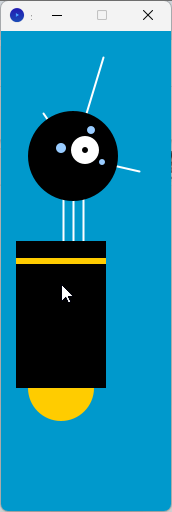
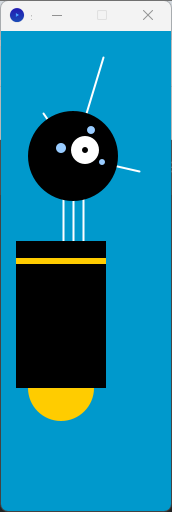
Refactor robot drawing code into reusable drawRobot() function

diff --git a/processing/refactor-to-functions.md b/processing/refactor-to-functions.md
@@ -107,3 +107,301 @@ ellipse(x+30, ny-26, 4, 4);                   // 장식 점 2
 ellipse(x+41, ny+6, 3, 3);                    // 장식 점 3
 ```
 
+## 네 가지 모양의 로봇
+
+### 첫 번째 모양
+
+```java
+int x = 60; 
+int y = 390; 
+int bodyHeight = 180; 
+int neckHeight = 40; 
+int radius = 45;
+int ny = y - bodyHeight - neckHeight - radius; 
+
+size(170, 480);
+strokeWeight(2);
+background(0, 153, 204);
+ellipseMode(RADIUS);
+
+// Neck
+stroke(255);
+line(x+2, y-bodyHeight, x+2, ny);
+line(x+12, y-bodyHeight, x+12, ny);
+line(x+22, y-bodyHeight, x+22, ny);
+
+// Antennae
+line(x+12, ny, x-18, ny-43);
+line(x+12, ny, x+42, ny-99);
+line(x+12, ny, x+78, ny+15);
+
+// Body
+noStroke();
+fill(255, 204, 0);
+ellipse(x, y-33, 33, 33);
+fill(0);
+rect(x-45, y-bodyHeight, 90, bodyHeight-33);
+fill(255, 204, 0);
+rect(x-45, y-bodyHeight+17, 90, 6);
+
+// Head
+fill(0);
+ellipse(x+12, ny, radius, radius);
+fill(255);
+ellipse(x+24, ny-6, 14, 14);
+fill(0);
+ellipse(x+24, ny-6, 3, 3);
+fill(153, 204, 255);
+ellipse(x, ny-8, 5, 5);
+ellipse(x+30, ny-26, 4, 4);
+ellipse(x+41, ny+6, 3, 3);
+```
+
+#### 변경 내용
+
+```java
+y = 390
+bodyHeight = 180
+neckHeight = 40
+```
+
+![로봇의 첫 번째 모양](images/robot-first.png)
+
+### 두 번째 모양
+
+```java
+int x = 60; 
+int y = 460; 
+int bodyHeight = 260; 
+int neckHeight = 95; 
+int radius = 45;
+int ny = y - bodyHeight - neckHeight - radius; 
+
+size(170, 480);
+strokeWeight(2);
+background(0, 153, 204);
+ellipseMode(RADIUS);
+
+// Neck
+stroke(255);
+line(x+2, y-bodyHeight, x+2, ny);
+line(x+12, y-bodyHeight, x+12, ny);
+line(x+22, y-bodyHeight, x+22, ny);
+
+// Antennae
+line(x+12, ny, x-18, ny-43);
+line(x+12, ny, x+42, ny-99);
+line(x+12, ny, x+78, ny+15);
+
+// Body
+noStroke();
+fill(255, 204, 0);
+ellipse(x, y-33, 33, 33);
+fill(0);
+rect(x-45, y-bodyHeight, 90, bodyHeight-33);
+fill(255, 204, 0);
+rect(x-45, y-bodyHeight+17, 90, 6);
+
+// Head
+fill(0);
+ellipse(x+12, ny, radius, radius);
+fill(255);
+ellipse(x+24, ny-6, 14, 14);
+fill(0);
+ellipse(x+24, ny-6, 3, 3);
+fill(153, 204, 255);
+ellipse(x, ny-8, 5, 5);
+ellipse(x+30, ny-26, 4, 4);
+ellipse(x+41, ny+6, 3, 3);
+```
+
+#### 변경 내용
+
+```java
+y = 460
+bodyHeight = 260
+neckHeight = 95
+```
+
+![로봇의 두 번째 모양](images/robot-second.png)
+
+### 세 번째 모양
+```java
+int x = 60; 
+int y = 310; 
+int bodyHeight = 80; 
+int neckHeight = 10; 
+int radius = 45;
+int ny = y - bodyHeight - neckHeight - radius; 
+
+size(170, 480);
+strokeWeight(2);
+background(0, 153, 204);
+ellipseMode(RADIUS);
+
+// Neck
+stroke(255);
+line(x+2, y-bodyHeight, x+2, ny);
+line(x+12, y-bodyHeight, x+12, ny);
+line(x+22, y-bodyHeight, x+22, ny);
+
+// Antennae
+line(x+12, ny, x-18, ny-43);
+line(x+12, ny, x+42, ny-99);
+line(x+12, ny, x+78, ny+15);
+
+// Body
+noStroke();
+fill(255, 204, 0);
+ellipse(x, y-33, 33, 33);
+fill(0);
+rect(x-45, y-bodyHeight, 90, bodyHeight-33);
+fill(255, 204, 0);
+rect(x-45, y-bodyHeight+17, 90, 6);
+
+// Head
+fill(0);
+ellipse(x+12, ny, radius, radius);
+fill(255);
+ellipse(x+24, ny-6, 14, 14);
+fill(0);
+ellipse(x+24, ny-6, 3, 3);
+fill(153, 204, 255);
+ellipse(x, ny-8, 5, 5);
+ellipse(x+30, ny-26, 4, 4);
+ellipse(x+41, ny+6, 3, 3);
+```
+
+#### 변경 내용
+
+```java
+y = 310
+bodyHeight = 80
+neckHeight = 10
+```
+
+![로봇의 세 번째 모양](images/robot-third.png)
+
+### 네 번째 모양
+
+```java
+int x = 60; 
+int y = 420; 
+int bodyHeight = 110; 
+int neckHeight = 140; 
+int radius = 45;
+int ny = y - bodyHeight - neckHeight - radius; 
+
+size(170, 480);
+strokeWeight(2);
+background(0, 153, 204);
+ellipseMode(RADIUS);
+
+// Neck
+stroke(255);
+line(x+2, y-bodyHeight, x+2, ny);
+line(x+12, y-bodyHeight, x+12, ny);
+line(x+22, y-bodyHeight, x+22, ny);
+
+// Antennae
+line(x+12, ny, x-18, ny-43);
+line(x+12, ny, x+42, ny-99);
+line(x+12, ny, x+78, ny+15);
+
+// Body
+noStroke();
+fill(255, 204, 0);
+ellipse(x, y-33, 33, 33);
+fill(0);
+rect(x-45, y-bodyHeight, 90, bodyHeight-33);
+fill(255, 204, 0);
+rect(x-45, y-bodyHeight+17, 90, 6);
+
+// Head
+fill(0);
+ellipse(x+12, ny, radius, radius);
+fill(255);
+ellipse(x+24, ny-6, 14, 14);
+fill(0);
+ellipse(x+24, ny-6, 3, 3);
+fill(153, 204, 255);
+ellipse(x, ny-8, 5, 5);
+ellipse(x+30, ny-26, 4, 4);
+ellipse(x+41, ny+6, 3, 3);
+```
+
+#### 변경 내용
+
+```java
+y = 420
+bodyHeight = 110
+neckHeight = 140
+```
+
+![로봇의 네 번째 모양](images/robot-fourth.png)
+
+
+## 여러 모양의 로봇을 함수로 관리하기
+
+```java
+void setup() {
+  size(170, 480);
+  strokeWeight(2);
+  background(0, 153, 204);
+  ellipseMode(RADIUS);
+
+  drawRobot(60, 390, 180, 40);
+  // drawRobot(60, 460, 260, 95);
+  // drawRobot(60, 310, 80, 10);
+  // drawRobot(60, 420, 110, 140);
+}
+
+void drawRobot(int x, int y, int bodyHeight, int neckHeight) {
+  int radius = 45;
+  int ny = y - bodyHeight - neckHeight - radius;
+
+  stroke(255);
+  line(x+2, y-bodyHeight, x+2, ny);
+  line(x+12, y-bodyHeight, x+12, ny);
+  line(x+22, y-bodyHeight, x+22, ny);
+
+  line(x+12, ny, x-18, ny-43);
+  line(x+12, ny, x+42, ny-99);
+  line(x+12, ny, x+78, ny+15);
+
+  noStroke();
+  fill(255, 204, 0);
+  ellipse(x, y-33, 33, 33);
+  fill(0);
+  rect(x-45, y-bodyHeight, 90, bodyHeight-33);
+  fill(255, 204, 0);
+  rect(x-45, y-bodyHeight+17, 90, 6);
+
+  fill(0);
+  ellipse(x+12, ny, radius, radius);
+  fill(255);
+  ellipse(x+24, ny-6, 14, 14);
+  fill(0);
+  ellipse(x+24, ny-6, 3, 3);
+  fill(153, 204, 255);
+  ellipse(x, ny-8, 5, 5);
+  ellipse(x+30, ny-26, 4, 4);
+  ellipse(x+41, ny+6, 3, 3);
+}
+```
+
+### 첫 번째 모양
+
+![함수화 로봇의 첫 번째 모양](images/robot-first-function.png)
+
+### 두 번째 모양
+
+![함수화 로봇의 두 번째 모양](images/robot-second-function.png)
+
+### 세 번째 모양
+
+![함수화 로봇의 세 번째 모양](images/robot-third-function.png)
+
+### 네 번째 모양
+
+![함수화 로봇의 네 번째 모양](images/robot-fourth-function.png)
